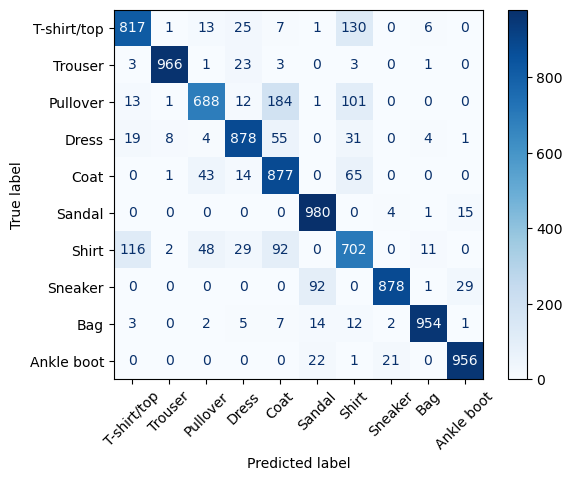
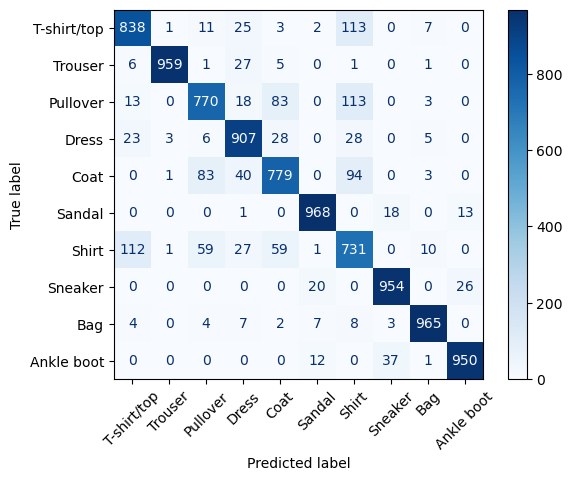
changed to random_sampler for val split

diff --git a/README.md b/README.md
@@ -91,7 +91,7 @@ The following graph shows the confusion matrix for the test dataset.
 
 ### PyTorch Implementation
 
-The loss function used is Negative Log Likelihood. The activation function used in the output layer is the LogSoftmax function. The training accuracy reached 0.9059 and the validation accuracy reached 0.8773. The training loss reached 0.2557 and the validation loss reached 0.3336. The model has an accuracy of 0.8696 on the test dataset. More metrics are available in the `torch-mlp-tuned.ipynb` notebook.
+The loss function used is Negative Log Likelihood. The activation function used in the output layer is the LogSoftmax function. The training accuracy reached 0.9091 and the validation accuracy reached 0.8892. The training loss reached 0.2435 and the validation loss reached 0.3172. The model has an accuracy of 0.8821 on the test dataset. More metrics are available in the `torch-mlp-tuned.ipynb` notebook.
 
 The following graph shows the training and validation loss and accuracy during training.
 
